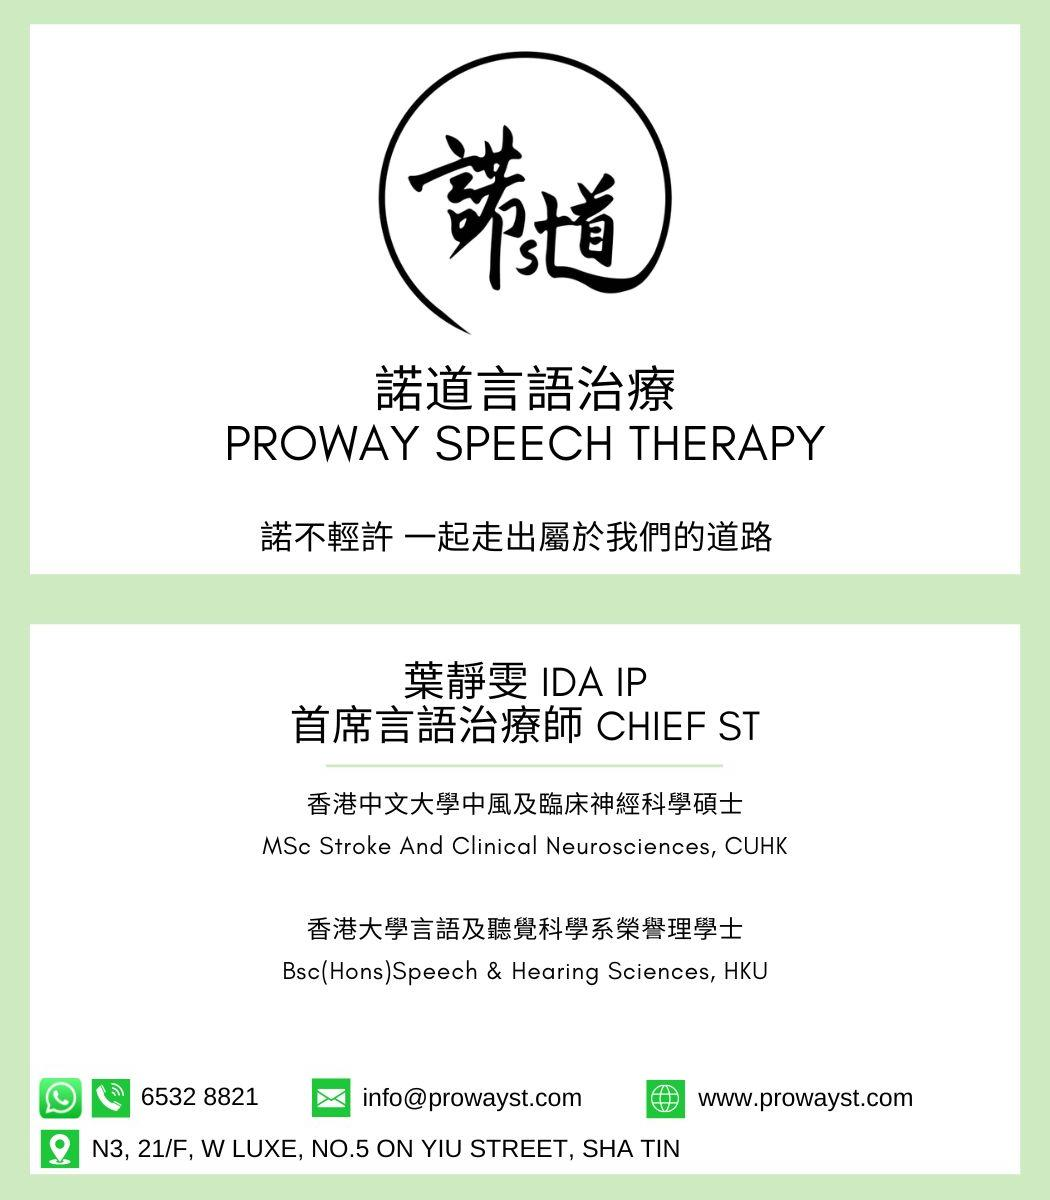
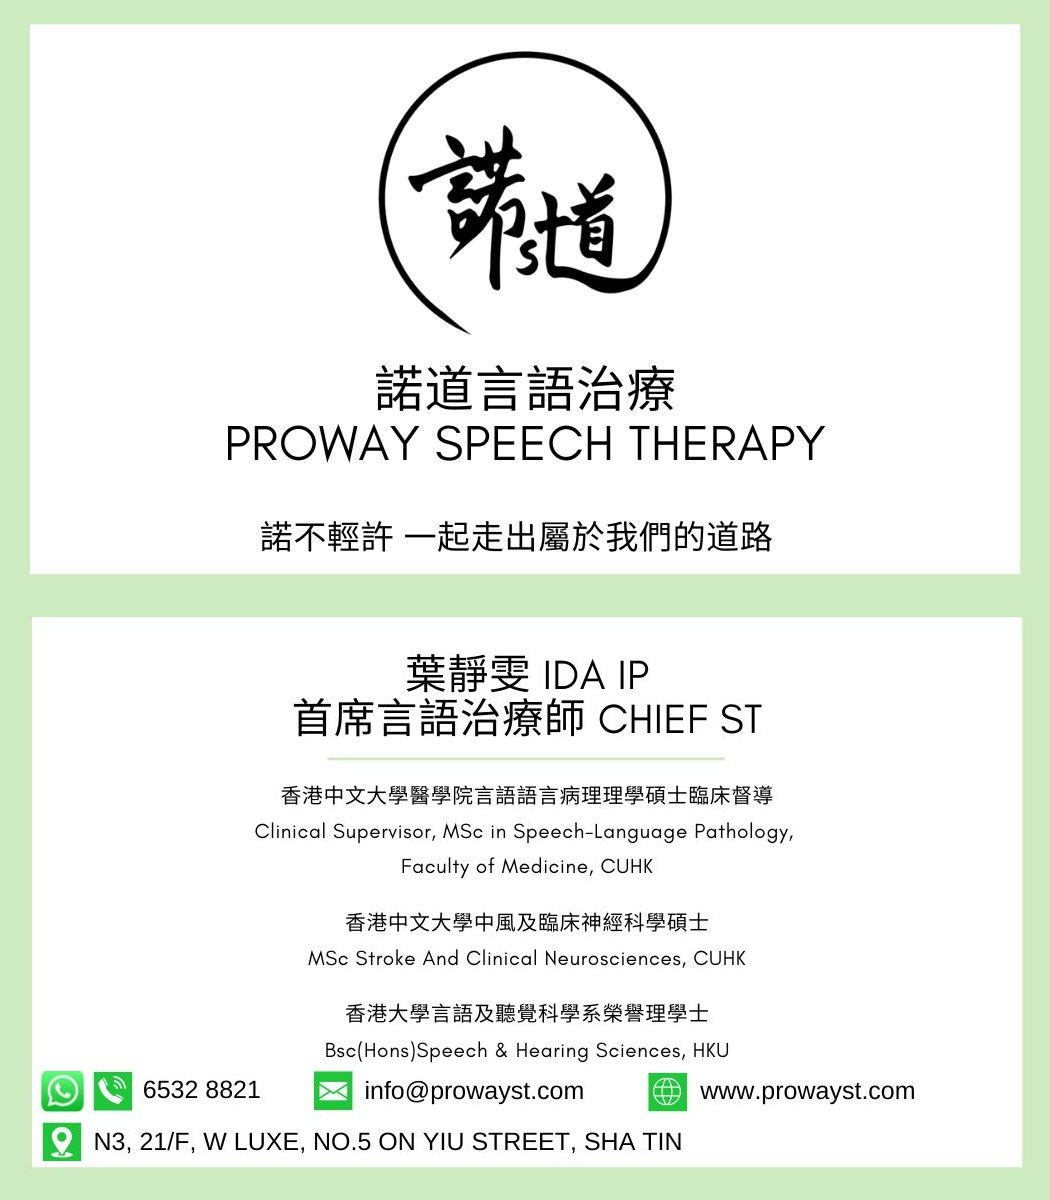
Update14

Changed region(s): [[0.0305, 0.4933, 0.9752, 0.9867]]

diff --git a/interndetail.html b/interndetail.html
@@ -2,7 +2,7 @@
 <html lang="en">
 
 <head>
-	<title>PROWAY SPEECH THERAPY - 諾道好評</title>
+	<title>PROWAY SPEECH THERAPY - 聯絡我們</title>
 	<link rel="icon" type="image/x-icon" href="images/favicon.ico">
 	<meta name="viewport" content="width=device-width, initial-scale=1">
 	<meta charset="utf-8">
@@ -30,8 +30,6 @@
 	<!-- //font -->
 	<script src="js/jquery-1.11.1.min.js"></script>
 	<script src="js/bootstrap.js"></script>
-	<script src="https://cdnjs.cloudflare.com/ajax/libs/PapaParse/5.3.0/papaparse.min.js"></script>
-
 	<script type="text/javascript">
 		jQuery(document).ready(function ($) {
 			$(".scroll").click(function (event) {
@@ -39,49 +37,6 @@
 				$('html,body').animate({ scrollTop: $(this.hash).offset().top }, 1000);
 			});
 		});
-
-		$(document).ready(function () {
-			// Load CSV data
-			Papa.parse("feedback.csv", {
-				download: true,
-				header: true,
-				complete: function (results) {
-					processData(results.data);
-				}
-			});
-		});
-
-		// Process CSV data
-		function processData(data) {
-			for (var i = 0; i < data.length; i++) {
-				var row = data[i];
-				var name = row["Name"];
-				var date = row["Date"];
-				var feedback = row["Data"].replace(/\n/g, "<br>");
-				var image = row["Image"];
-
-				var htmlContent = '<div class="agileits_three_comment_grid">' +
-					'<div class="agileits_tom">' +
-					'<img src="' + image + '" alt="" class="img-responsive">' +
-					'</div>' +
-					'<div class="agileits_tom_right">' +
-					'<div class="hardy">' +
-					'<h4>' + name + '</h4>' +
-					'<p><span class="fa fa-calendar-o"> ' + date + '</span></p>' +
-					'</div>' +
-					'<div class="clearfix"> </div>' +
-					'<p class="lorem">' + feedback + '</p>' +
-					'</div>' +
-					'<div class="clearfix"> </div>' +
-					'<p class="right">更多好評 <a href="https://www.instagram.com/prowayspeechtherapy/">' +
-					'<img src="images/instagram.png"></a>/<a href="https://www.facebook.com/prowayspeechtherapy/">' +
-					'<img src="images/facebook.png"></a></p>' +
-					'</div>';
-
-				$('.agileits_three_comments').append(htmlContent);
-			}
-		}
-
 	</script>
 	<!--[if lt IE 9]>
   <script src="https://oss.maxcdn.com/libs/html5shiv/3.7.0/html5shiv.js"></script>
@@ -148,8 +103,8 @@
 											</ul>
 										</li>
 										<li><a href="share.html">諾道分享</a></li>
-										<li><a class="active" href="good.html">諾道好評</a></li>
-										<li><a href="contact.html">聯絡諾道</a></li>
+										<li><a href="good.html">諾道好評</a></li>
+										<li><a class="" href="contact.html">聯絡諾道</a></li>
 									</ul>
 									<div class="clearfix"> </div>
 								</div>
@@ -174,38 +129,42 @@
 			</div>
 		</div>
 		<div class="w3ls-heading">
-			<h2>諾道好評</h2>
+			<h2>諾道實習⽣計劃</h2>
 		</div>
 	</div>
 	<!-- //banner -->
-	<!-- single -->
-	<div class="single">
+	<!-- contact -->
+	<div class="contact">
 		<div class="container">
-			<div class="agileits-single-img">
-				<img src="images/p2.jpg" alt="" />
-				<!-- comments -->
-				<div class="agileits_three_comments">
-					<h3>諾道好評</h3>
-				</div>
-
-				<!---<p class="right">
-					更多好評
-					<a href="https://www.instagram.com/prowayspeechtherapy/">
-						<img src="images/instagram.png">
-					</a>
-					/
-					<a href="https://www.facebook.com/prowayspeechtherapy/">
-						<img src="images/facebook.png">
-					</a>
-				</p>-->
+			<div class="agile-contact-form">
+				
+				<div class="clearfix"> </div>
 			</div>
-			<!-- //comments -->
+			<div class="interndetail-container">
+				<h4>計劃介紹</h4>
+				諾道重視傳承，致力培育更多專業人才陪伴小朋友成長。實習生將獲安排跟隨深言語治療師及社工學習知識和發展專業技能，為畢業後的事業發展做好準備。
+				<br><br>
+				實習時間：每年7-8月，8星期或以上
+				<br><br>
+
+				<h4>計劃要求</h4>
+				歡迎具備以下條件的非應屆畢業大學生參與計劃：<br>
+				<ul class="dash-list">
+					<li>2026 年畢業，專修言語及語言病理學/社會工作學的本科生或研究生</li>
+					<li>實習期為 2025 年 7至 8 月，實習8星期或以上，每周3至4天工作</li>
+					<li>具責任感、誠信操守、重視團隊精神</li>
+					<li>樂於與家長緊密溝通合作</li>
+					<li>對兒童工作有熱誠</li>
+				</ul>
+				<br>
+				<h4>申請計劃</h4>
+				第一屆諾道實習生計劃現已開始接受申請，有興趣的同學請於2025年6月10日前將履歷經電郵傳送到 <a href="mailto:info@prowayst.com">info@prowayst.com</a><br>
+				<br>
+				如有任何查詢，請致電 6532 8821 或電郵至<a href="mailto:info@prowayst.com">info@prowayst.com</a>
+			</div>
 		</div>
 	</div>
-
-
-
-	<!-- //single -->
+	<!-- //contact -->
 	<!-- footer -->
 	<div class="footer">
 		<div class="container">
@@ -218,15 +177,19 @@
 				</div>
 
 				<div class="col-md-4 agile-footer-grid">
-					<span><b>星期二至日</b> 09:00 - 18:00</span><br>
-					<span><b>星期一</b> 休息</span><br>
+					<span><b>星期二至日</b> 09:00 - 18:00</span>
+					<br>
+					<span><b>星期一</b> 休息</span>
+					<br>
 					<span><b>敬請預約</b></span>
 				</div>
 
 
-				<div class="clearfix"> </div>
 			</div>
+
+			<div class="clearfix"> </div>
 		</div>
+	</div>
 	</div>
 	<!-- //footer -->
 	<!-- copyright -->

diff --git a/index.html b/index.html
@@ -42,6 +42,51 @@
 	<!--[if lt IE 9]>
   <script src="https://oss.maxcdn.com/libs/html5shiv/3.7.0/html5shiv.js"></script>
 <![endif]-->
+<style>
+/* Modal Box Styles */
+.modal-overlay {
+    display: none;
+    position: fixed;
+    top: 0;
+    left: 0;
+    width: 100%;
+    height: 100%;
+    background-color: rgba(0, 0, 0, 0.7);
+    z-index: 1000;
+}
+
+.modal-box {
+    display: none;
+    position: fixed;
+    top:60%;
+    left: 50%;
+    transform: translate(-50%, -50%);
+    background-color: white;
+    padding: 28px;
+    border-radius: 8px;
+    z-index: 1001;
+    max-width: 70%;
+    max-height: 90vh;
+}
+
+.modal-close {
+    position: absolute;
+    top: 2px;
+    right: 10px;
+    font-size: 24px;
+    cursor: pointer;
+    color: #333;
+}
+
+.modal-content img {
+    max-width: 100%;
+    height: auto;
+    display: block;
+    max-height: 60vh;
+    width: auto;
+    margin: 0 auto;
+}
+</style>
 </head>
 
 <body>
@@ -487,6 +532,42 @@
 				}
 			});
 		});
+	</script>
+
+	<!-- Modal Box -->
+	<div id="welcomeModal" class="modal-overlay">
+		<div class="modal-box">
+			<span class="modal-close">&times;</span>
+			<div class="modal-content">
+				<a href="interndetail.html"><img src="images/intern/frist_intern.png" alt="Welcome Image"></a>
+			</div>
+		</div>
+	</div>
+
+	<script>
+	document.addEventListener('DOMContentLoaded', function() {
+		const modal = document.getElementById('welcomeModal');
+		const modalBox = modal.querySelector('.modal-box');
+		const closeBtn = modal.querySelector('.modal-close');
+
+		// Show modal when page loads
+		modal.style.display = 'block';
+		modalBox.style.display = 'block';
+
+		// Close modal when clicking the close button
+		closeBtn.onclick = function() {
+			modal.style.display = 'none';
+			modalBox.style.display = 'none';
+		}
+
+		// Close modal when clicking outside the modal
+		window.onclick = function(event) {
+			if (event.target == modal) {
+				modal.style.display = 'none';
+				modalBox.style.display = 'none';
+			}
+		}
+	});
 	</script>
 </body>
 

diff --git a/about.html b/about.html
@@ -153,6 +153,9 @@
 							<b>
 								<P>首席言語治療師 CHIEF ST</P>
 							</b>
+							<p>香港中文大學醫學院言語語言病理理學碩士</p>
+							<p>MSc in Speech-Language Pathology, Faculty of Medicine, CUHK</p>
+							<br>
 							<p>香港中文大學中風及臨床神經科學碩士</p>
 							<p>MSc Stroke And Clinical Neurosciences, CUHK</p>
 							<br>
@@ -179,6 +182,7 @@
 							</b>
 							<p>香港大學言語及聽覺科學系榮譽理學士</p>
 							<p>Bsc(Hons)Speech & Hearing Sciences, HKU</p>
+							<br><br><br><br><br>
 							<!-- end normal -->
 						</div>
 						<div class="w3-button">
@@ -200,6 +204,7 @@
 							</b>
 							<p>香港大學言語及聽覺科學系榮譽理學士</p>
 							<p>Bsc(Hons)Speech & Hearing Sciences, HKU</p>
+							<br><br><br><br><br>
 							<!-- end normal -->
 						</div>
 						<div class="w3-button">
@@ -230,7 +235,7 @@
 						<div class="w3-button">
 							<figure class="effect-apollo">
 								<a class="example-image-link" href="images/nameCard//PROWAY BC_ST PRUDENCE.jpg"
-									data-lightbox="example-set" data-title="Ms. Prudence - 言語治療師 ST<">
+									data-lightbox="example-set" data-title="Ms. Prudence - 言語治療師 ST">
 									卡片</a>
 							</figure>
 						</div>
@@ -314,6 +319,7 @@
 							<br>
 							<p>遊戲治療證書(美國遊戲治療協會)</p>
 							<p>Certificates of Play Therapy (APT)</p>
+							<br>
 							<!-- end normal -->
 						</div>
 						<div class="w3-button">
@@ -404,13 +410,11 @@
 					<span><b>敬請預約</b></span>
 				</div>
 
-				<div class="videos col-md-2 agile-footer-grid">
-
-				</div>
-
-				<div class="clearfix"> </div>
 			</div>
+
+			<div class="clearfix"> </div>
 		</div>
+	</div>
 	</div>
 	<!-- //footer -->
 	<!-- copyright -->

diff --git a/css/style.css b/css/style.css
@@ -271,6 +271,21 @@ ul.dropdown-menu {
     border-radius: 6px 0 6px 6px;
 }
 
+.interndetail-container h4{
+    font-size: 18px;
+    color: #8DAE84;
+    font-weight: bolder;
+}
+
+.dash-list {
+    list-style: none;
+    padding-left: 20px;
+}
+.dash-list li:before {
+    content: "- ";
+    margin-left: -20px;
+}
+
 /*-- //top-nav --*/
 /*-- social-icons --*/
 .agileinfo-social-grids {

diff --git a/our-services/enhancement.html b/our-services/enhancement.html
@@ -224,10 +224,7 @@
 					<span><b>敬請預約</b></span>
 				</div>
 
-				<div class="videos col-md-2 agile-footer-grid">
-
-				</div>
-
+				
 				<div class="clearfix"> </div>
 			</div>
 		</div>

diff --git a/contact.html b/contact.html
@@ -180,9 +180,6 @@
 					<span><b>敬請預約</b></span>
 				</div>
 
-				<div class="videos col-md-2 agile-footer-grid">
-
-				</div>
 
 				<div class="clearfix"> </div>
 			</div>
